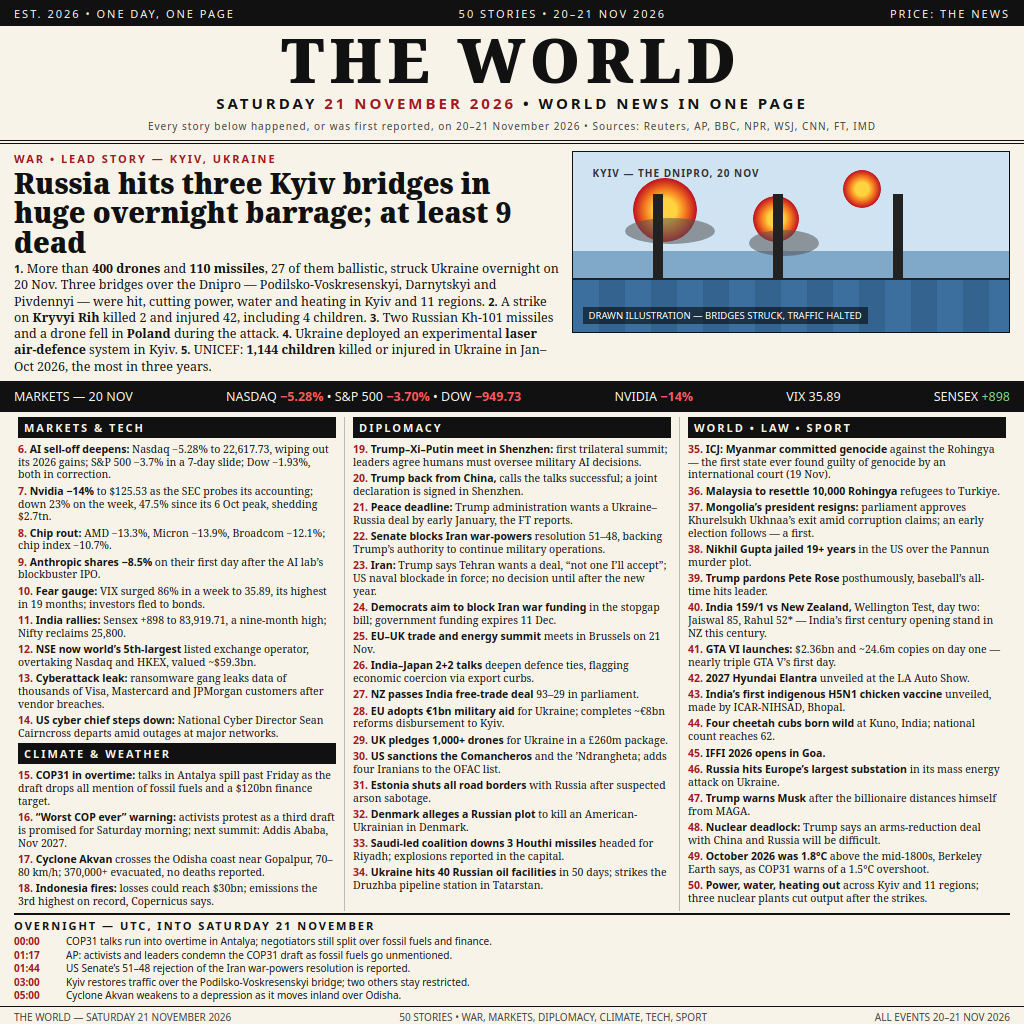
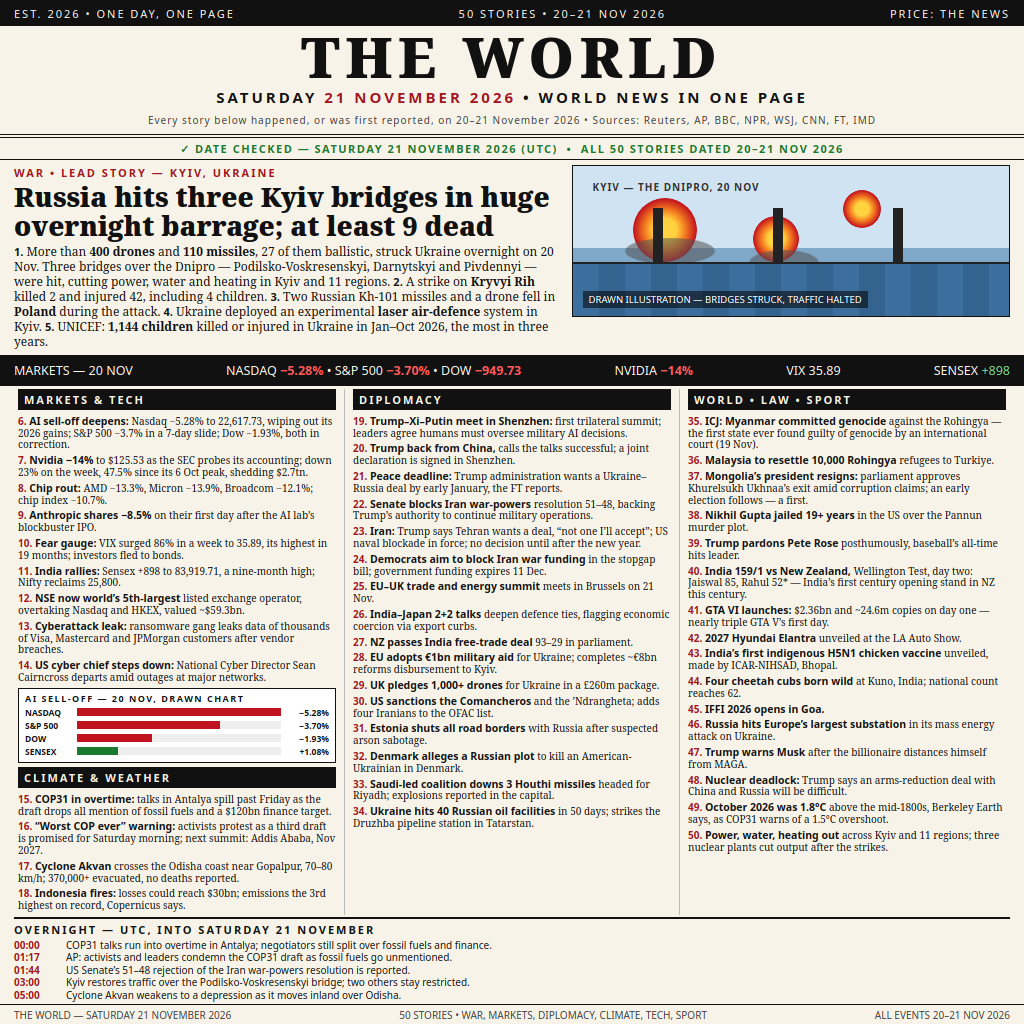
Update frontpage.html and entry.png

diff --git a/frontpage.html b/frontpage.html
@@ -4,40 +4,49 @@
 body{width:1024px;height:1024px;background:#f7f3e8;color:#111;font-family:'Noto Serif',Georgia,serif;overflow:hidden}
 .top{height:26px;background:#111;color:#f7f3e8;display:flex;justify-content:space-between;align-items:center;padding:0 14px;font-family:'Noto Sans',Arial,sans-serif;font-size:11px;letter-spacing:2px}
 .mast{text-align:center;padding:4px 0 1px;border-bottom:4px double #111}
-.mast h1{font-size:62px;line-height:.95;letter-spacing:6px;font-weight:900}
+.mast h1{font-size:56px;line-height:.95;letter-spacing:6px;font-weight:900}
 .dateline{font-family:'Noto Sans',Arial,sans-serif;font-size:15px;letter-spacing:3px;font-weight:700;padding:4px 0 6px}
 .dateline span{color:#a31621}
 .sub{font-family:'Noto Sans',Arial,sans-serif;font-size:10px;letter-spacing:1px;color:#444;padding-bottom:6px}
-.lead{display:flex;gap:12px;padding:7px 14px 6px;border-bottom:2px solid #111}
+.datecheck{font-family:'Noto Sans',Arial,sans-serif;font-size:11px;font-weight:700;letter-spacing:1.5px;color:#1a7a2e;text-align:center;padding:3px 0;border-bottom:1px solid #111}
+.lead{display:flex;gap:12px;padding:5px 14px 6px;border-bottom:2px solid #111}
 .leadtext{flex:1.25}
 .kicker{font-family:'Noto Sans',Arial,sans-serif;font-size:11px;font-weight:700;letter-spacing:2px;color:#a31621}
-.leadtext h2{font-size:28px;line-height:1.05;font-weight:900;margin:3px 0 4px}
-.leadtext p{font-size:12.5px;line-height:1.3}
+.leadtext h2{font-size:27px;line-height:1.05;font-weight:900;margin:3px 0 4px}
+.leadtext p{font-size:12px;line-height:1.25}
 .leadtext .num{font-family:'Noto Sans',Arial,sans-serif;font-size:11px;font-weight:700}
-.illus{flex:1;position:relative;height:182px;background:linear-gradient(#cfe3f2 0 55%,#7fa8c9 55% 72%,#4d7ba3 72%);border:1px solid #111;overflow:hidden}
+.illus{flex:1;position:relative;height:152px;background:linear-gradient(#cfe3f2 0 55%,#7fa8c9 55% 72%,#4d7ba3 72%);border:1px solid #111;overflow:hidden}
 .sky{position:absolute;top:14px;left:20px;font-family:'Noto Sans',Arial,sans-serif;font-size:10px;font-weight:700;letter-spacing:1px;color:#333}
 .burst{position:absolute;width:64px;height:64px;border-radius:50%;background:radial-gradient(circle,#ffd23f 0 25%,#f47c20 45%,#c1121f 70%,transparent 72%)}
-.b1{top:26px;left:60px}.b2{top:44px;left:180px;width:46px;height:46px}.b3{top:18px;left:270px;width:38px;height:38px}
-.smoke{position:absolute;width:90px;height:26px;border-radius:50%;background:#555;opacity:.55;top:66px;left:52px}
-.smoke2{top:78px;left:176px;width:70px}
+.b1{top:32px;left:60px}.b2{top:50px;left:180px;width:46px;height:46px}.b3{top:24px;left:270px;width:38px;height:38px}
+.smoke{position:absolute;width:90px;height:26px;border-radius:50%;background:#555;opacity:.55;top:72px;left:52px}
+.smoke2{top:84px;left:176px;width:70px}
 .river{position:absolute;bottom:0;left:0;right:0;height:52px;background:repeating-linear-gradient(90deg,#3d6f9e 0 26px,#35638f 26px 52px)}
 .bridge{position:absolute;bottom:44px;left:0;right:0;height:10px;background:#222}
-.pylon{position:absolute;bottom:52px;width:10px;height:86px;background:#222}
+.pylon{position:absolute;bottom:52px;width:10px;height:56px;background:#222}
 .p1{left:80px}.p2{left:200px}.p3{left:320px}
-.cable{position:absolute;bottom:52px;width:2px;height:80px;background:#222;transform:rotate(24deg);transform-origin:bottom}
+.cable{position:absolute;bottom:52px;width:2px;height:56px;background:#222;transform:rotate(24deg);transform-origin:bottom}
 .cap{position:absolute;bottom:8px;left:10px;font-family:'Noto Sans',Arial,sans-serif;font-size:9.5px;color:#fff;background:rgba(0,0,0,.55);padding:2px 6px}
 .markets{background:#111;color:#f7f3e8;font-family:'Noto Sans',Arial,sans-serif;display:flex;justify-content:space-between;padding:5px 14px;font-size:12.5px;border-bottom:2px solid #111}
 .markets b{color:#ff5a5a}.markets .up{color:#7ddb8a}
-.cols{display:flex;gap:0;padding:5px 10px 2px}
+.cols{display:flex;gap:0;padding:3px 10px 2px}
 .col{flex:1;padding:0 8px;border-right:1px solid #bbb}
 .col:last-child{border-right:none}
 .col h3{font-family:'Noto Sans',Arial,sans-serif;font-size:11px;letter-spacing:2px;background:#111;color:#f7f3e8;padding:3px 6px;margin-bottom:5px}
-.story{font-size:10.5px;line-height:1.22;margin-bottom:3.5px}
+.story{font-size:10px;line-height:1.18;margin-bottom:3px}
+.chart{border:1px solid #111;background:#fff;padding:3px 6px;margin:4px 0}
+.chart-title{font-family:'Noto Sans',Arial,sans-serif;font-size:9px;font-weight:700;letter-spacing:1.5px;margin-bottom:2px}
+.brow{display:flex;align-items:center;gap:4px;margin-bottom:2px}
+.blab{font-family:'Noto Sans',Arial,sans-serif;font-size:8.5px;font-weight:700;width:48px;flex:none}
+.bar{flex:1;height:8px;background:#eee;position:relative}
+.bar i{position:absolute;left:0;top:0;bottom:0;background:#c1121f}
+.bar i.up{background:#1a7a2e}
+.bval{font-family:'Noto Sans',Arial,sans-serif;font-size:8.5px;font-weight:700;width:44px;text-align:right;flex:none}
 .story b{font-family:'Noto Sans',Arial,sans-serif;font-size:10.5px}
 .story .n{color:#a31621;font-family:'Noto Sans',Arial,sans-serif;font-weight:700}
 .timeline{margin:0 14px;border-top:2px solid #111;padding:3px 0 1px}
 .timeline h3{font-family:'Noto Sans',Arial,sans-serif;font-size:11px;letter-spacing:2px;margin-bottom:2px}
-.timeline .row{display:flex;font-family:'Noto Sans',Arial,sans-serif;font-size:10px;line-height:1.35}
+.timeline .row{display:flex;font-family:'Noto Sans',Arial,sans-serif;font-size:10px;line-height:1.25}
 .timeline .row span{width:52px;font-weight:700;color:#a31621;flex:none}
 .foot{display:flex;justify-content:space-between;padding:3px 14px 0;font-family:'Noto Sans',Arial,sans-serif;font-size:10px;color:#444;border-top:1px solid #111;margin-top:2px}
 </style></head>
@@ -46,6 +55,7 @@ body{width:1024px;height:1024px;background:#f7f3e8;color:#111;font-family:'Noto 
 <div class="mast"><h1>THE WORLD</h1>
 <div class="dateline">SATURDAY <span>21 NOVEMBER 2026</span> &bull; WORLD NEWS IN ONE PAGE</div>
 <div class="sub">Every story below happened, or was first reported, on 20&ndash;21 November 2026 &bull; Sources: Reuters, AP, BBC, NPR, WSJ, CNN, FT, IMD</div></div>
+<div class="datecheck">&#10003; DATE CHECKED &mdash; SATURDAY 21 NOVEMBER 2026 (UTC) &nbsp;&bull;&nbsp; ALL 50 STORIES DATED 20&ndash;21 NOV 2026</div>
 
 <div class="lead">
 <div class="leadtext">
@@ -77,6 +87,12 @@ body{width:1024px;height:1024px;background:#f7f3e8;color:#111;font-family:'Noto 
 <div class="story"><span class="n">12.</span> <b>NSE now world&rsquo;s 5th-largest</b> listed exchange operator, overtaking Nasdaq and HKEX, valued ~$59.3bn.</div>
 <div class="story"><span class="n">13.</span> <b>Cyberattack leak:</b> ransomware gang leaks data of thousands of Visa, Mastercard and JPMorgan customers after vendor breaches.</div>
 <div class="story"><span class="n">14.</span> <b>US cyber chief steps down:</b> National Cyber Director Sean Cairncross departs amid outages at major networks.</div>
+<div class="chart"><div class="chart-title">AI SELL-OFF &mdash; 20 NOV, DRAWN CHART</div>
+<div class="brow"><span class="blab">NASDAQ</span><div class="bar"><i style="width:100%"></i></div><span class="bval">&minus;5.28%</span></div>
+<div class="brow"><span class="blab">S&amp;P 500</span><div class="bar"><i style="width:70%"></i></div><span class="bval">&minus;3.70%</span></div>
+<div class="brow"><span class="blab">DOW</span><div class="bar"><i style="width:37%"></i></div><span class="bval">&minus;1.93%</span></div>
+<div class="brow"><span class="blab">SENSEX</span><div class="bar"><i class="up" style="width:20%"></i></div><span class="bval">+1.08%</span></div>
+</div>
 <h3>CLIMATE &amp; WEATHER</h3>
 <div class="story"><span class="n">15.</span> <b>COP31 in overtime:</b> talks in Antalya spill past Friday as the draft drops all mention of fossil fuels and a $120bn finance target.</div>
 <div class="story"><span class="n">16.</span> <b>&ldquo;Worst COP ever&rdquo; warning:</b> activists protest as a third draft is promised for Saturday morning; next summit: Addis Ababa, Nov 2027.</div>
